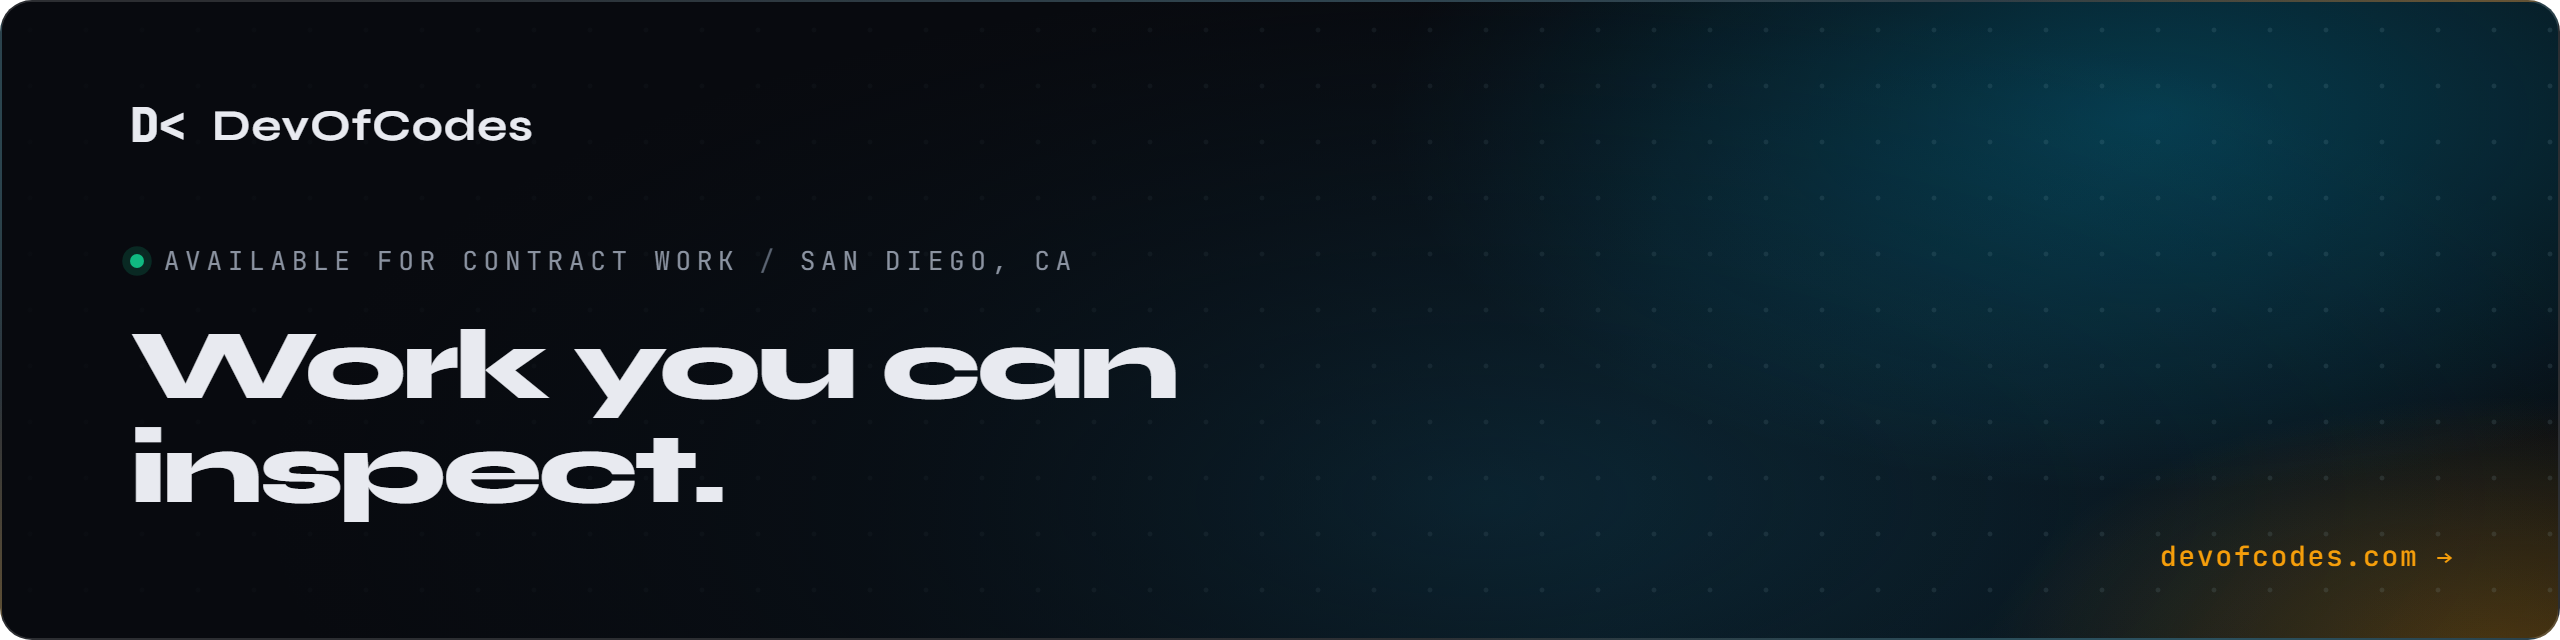
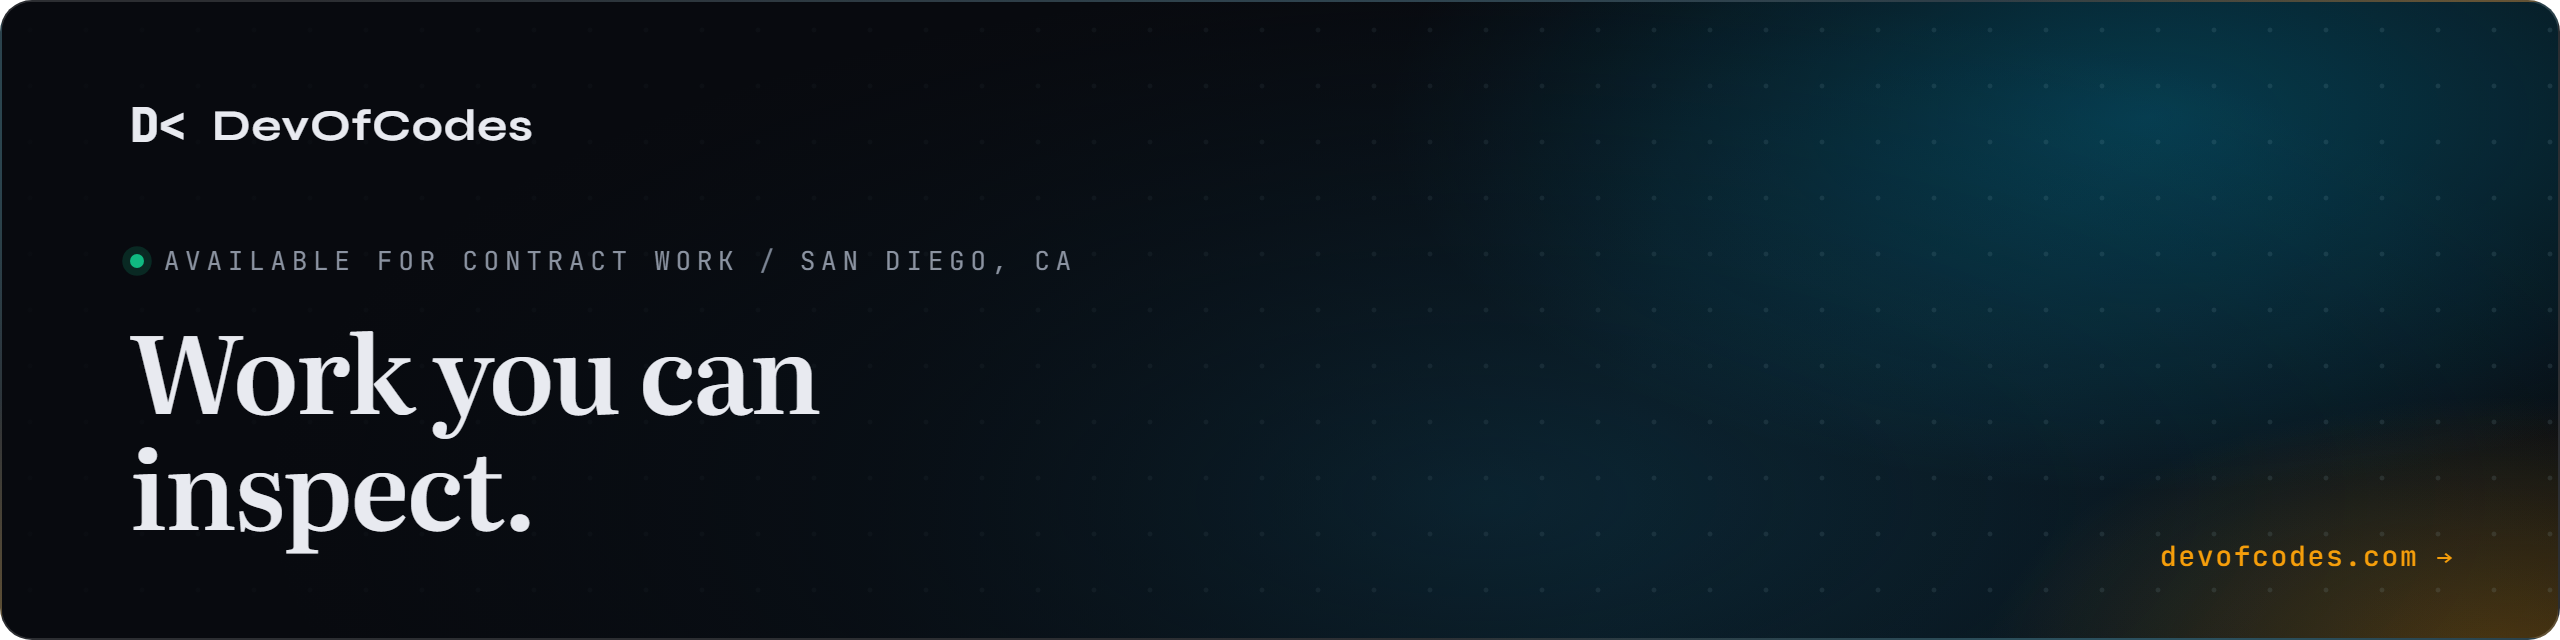
Brand images set the headline in Literata, like the site (#54) (#60)
- brand.css: a --font-heading token (Literata, loaded with its
  optical-size axis and weights 400 to 700) for .headline, at weight
  600 with the site's tracking. --font-display stays Syne for the
  wordmark and the repo names on the social previews. --text-muted
  matches the site (#7C8594).
- Literata is narrower than extended Syne, so the headlines grow a
  little: og 96px, banner 54px, X header 48px.
- Re-rendered only assets/og.png, org-profile/banner.png and
  x-header.png. The avatar, social previews and workspace logo are
  untouched.

Changed region(s): [[0.0312, 0.5, 0.4688, 0.875]]

diff --git a/.github/brand/src/brand.css b/.github/brand/src/brand.css
@@ -1,5 +1,5 @@
 /* DevOfCodes — tokens for the GitHub images. Same values as assets/site.css. */
-@import url('https://fonts.googleapis.com/css2?family=Syne:wght@700;800&family=Literata:ital,wght@0,400;1,400&family=JetBrains+Mono:wght@400;500;800&display=block');
+@import url('https://fonts.googleapis.com/css2?family=Syne:wght@700;800&family=Literata:ital,opsz,wght@0,7..72,400..700;1,7..72,400&family=JetBrains+Mono:wght@400;500;800&display=block');
 
 :root {
   --bg-base: #080A0F;
@@ -7,11 +7,12 @@
   --border-bright: rgba(255, 255, 255, 0.15);
   --text-primary: #E8EAF0;
   --text-secondary: #8B93A1;
-  --text-muted: #5C6573;
+  --text-muted: #7C8594;
   --accent-cyan: #00C8FF;
   --accent-amber: #F59E0B;
   --accent-green: #10B981;
-  --font-display: 'Syne', sans-serif;
+  --font-display: 'Syne', sans-serif;   /* the wordmark and repo names */
+  --font-heading: 'Literata', serif;    /* headlines, as the site's H1 since Landing#46 */
   --font-body: 'Literata', serif;
   --font-mono: 'JetBrains Mono', monospace;
 }
@@ -50,6 +51,6 @@ html, body { background: transparent; -webkit-font-smoothing: antialiased; }
 .eyebrow .dot { width: 0.55em; height: 0.55em; border-radius: 50%; background: var(--accent-green); box-shadow: 0 0 0 0.3em rgba(16,185,129,0.18); }
 .eyebrow .sep { color: var(--text-muted); }
 
-.headline { font-family: var(--font-display); font-weight: 800; letter-spacing: -0.035em; line-height: 1.04; }
+.headline { font-family: var(--font-heading); font-weight: 600; letter-spacing: -0.02em; line-height: 1.08; }
 .headline .line { display: block; }
 .headline .accent { color: var(--accent-cyan); }

diff --git a/.github/brand/src/x-header.html b/.github/brand/src/x-header.html
@@ -7,7 +7,7 @@
 .card { width: 1500px; height: 500px; display: flex; flex-direction: column; justify-content: center; padding-left: 560px; }
 .card.surface::after { background: linear-gradient(90deg, rgba(8,10,15,0.15) 0%, rgba(8,10,15,0.55) 34%, rgba(8,10,15,0.82) 60%, rgba(8,10,15,0.6) 100%); }
 .eyebrow { font-size: 15px; color: var(--text-secondary); }
-.headline { font-size: 44px; margin-top: 18px; white-space: nowrap; }
+.headline { font-size: 48px; margin-top: 18px; white-space: nowrap; }
 .url { margin-top: 22px; font-family: var(--font-mono); font-size: 18px; letter-spacing: 0.06em; color: var(--accent-amber); }
 </style></head>
 <body>

diff --git a/.github/brand/src/og.html b/.github/brand/src/og.html
@@ -8,7 +8,7 @@
 .lockup .mark { font-size: 28px; }
 .eyebrow { font-size: 15px; margin-top: auto; }
 .eyebrow { color: var(--text-secondary); }
-.headline { font-size: 88px; margin-top: 22px; white-space: nowrap; }
+.headline { font-size: 96px; margin-top: 22px; white-space: nowrap; }
 .bottom { display: flex; justify-content: space-between; align-items: center; margin-top: auto; padding-top: 28px; border-top: 1px solid var(--border-bright); font-family: var(--font-mono); font-size: 18px; color: var(--text-secondary); }
 .site { color: var(--accent-amber); font-weight: 500; letter-spacing: 0.04em; }
 </style></head>

diff --git a/.github/brand/src/banner.html b/.github/brand/src/banner.html
@@ -10,7 +10,7 @@
 .lockup { font-size: 22px; }
 .lockup .mark { font-size: 24px; }
 .eyebrow { font-size: 13px; margin-top: 44px; color: var(--text-secondary); }
-.headline { font-size: 50px; margin-top: 18px; white-space: nowrap; }
+.headline { font-size: 54px; margin-top: 16px; white-space: nowrap; }
 .url { position: absolute; right: 52px; bottom: 32px; font-family: var(--font-mono); font-size: 14px; font-weight: 500; letter-spacing: 0.06em; color: var(--accent-amber); }
 </style></head>
 <body>
